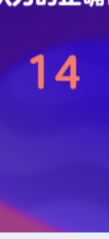
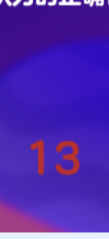
Debug challenge fight and add niu mode

diff --git a/running.py b/running.py
@@ -16,13 +16,14 @@ class MainRun:
     is_switch = False
     go_home = False
 
-    def __init__(self, skip_cat_grab, go_home, semi_auto = False, is_switch = False):
+    def __init__(self, skip_cat_grab, go_home, semi_auto = False, is_switch = False, is_niu = False):
         self.semi_auto = semi_auto
         self.go_home = go_home
         self.sft = get_scaling_factor()
         self.is_switch = is_switch
         print ("Scaling factor : " + str(self.sft))
         self.sc = skip_cat_grab
+        self.is_niu = is_niu
         found_rb = False
         retry = 50
         while not found_rb:
@@ -61,7 +62,7 @@ class MainRun:
         time.sleep(4)
         if not self.sc:
             self.grab_cat()
-        if self.go_home:
+        if self.go_home or self.is_niu:
             print ("Going home!")
             while single_find("VisitGoHome"):
                 try:
@@ -165,19 +166,20 @@ class MainRun:
     def find_cat_house(self):
         pyautogui.vscroll(100)  # Make it top
         scrolls = 50
+        cat_house_name = ("CatHouseNiu" if self.is_niu else "CatHouse" )
         while True:
             scrolls -= 1
             if scrolls == 0:
                 return False
-            elif not single_find("CatHouse"):
+            elif not single_find(cat_house_name):
                 pyautogui.vscroll(-100)
                 print ("Cat House not found, " + str(scrolls) + " retries remain")
                 continue
             else:
                 break
-        while single_find("CatHouse"):
+        while single_find(cat_house_name):
             try:
-                lc = get_center("CatHouse", "Single")
+                lc = get_center(cat_house_name, "Single")
                 vc = get_center("VisitButton", "Single")
                 # print(f"Image found at: {center.y}")
                 click_at((vc.x / self.sft), (lc.y / self.sft))

diff --git a/common.py b/common.py
@@ -1,3 +1,4 @@
+import time
 from datetime import datetime
 import pyautogui
 import cv2
@@ -5,6 +6,7 @@ import numpy as np
 import platform
 import ctypes
 
+from click import click_at
 
 coor_dict = {}
 
@@ -65,6 +67,7 @@ single_find_map = {
     "CardMode": "pics/card_mode.png",
     "CatCard": "pics/cat_card.png",
     "CatHouse": "pics/cat_house.png",
+    "CatHouseNiu": "pics/cat_house_niu.png",
     "VisitBack": "pics/visit_back.png",
     "Confirm": "pics/confirm.png",
     "BackVisit": "pics/back_normal_visit.png",
@@ -130,7 +133,7 @@ resource_map = {
 
 but_list = {}
 
-no_cache_list = ["CatHouse", "Exit", "Replace", "Chat", "RollRed", "DiamRed", "Confirm"]
+no_cache_list = ["CatHouse", "Exit", "Replace", "Chat", "RollRed", "DiamRed", "Confirm", "Challenge"]
 
 # Define a new print function with a timestamp
 # Save the original built-in print function
@@ -258,3 +261,23 @@ def screen_shot():
     screen = np.array(screenshot)
     return cv2.cvtColor(screen, cv2.COLOR_RGB2GRAY)
 
+def challenge_fight():
+    count = 1
+    while single_find("Challenge"):
+        print ("Chanllenge not pass, fight again!")
+        center = get_center("Challenge", "Single")
+        click_at(center.x, center.y)
+        time.sleep(3)
+        print("Start challenge fight " + str(count))
+        count += 1
+
+        while simple_single_find("FightSkip", "Single", 0.9):
+            print("Found Skip Button")
+            cc = get_center("FightSkip", "Single")
+            click_at(cc.x, cc.y)
+            time.sleep(3)
+    print ("Challenge fight " + str(count) + " then it succeeded!")
+
+
+if __name__ == "__main__":
+    challenge_fight()

diff --git a/imaginationplanet.py b/imaginationplanet.py
@@ -2,7 +2,7 @@ import argparse
 import datetime
 
 from boss_fight import BossFight
-from common import print
+from common import print, challenge_fight
 from email_tools import send_email
 from fight import Fight
 from running import MainRun
@@ -30,7 +30,10 @@ if __name__ == "__main__":
     parser.add_argument("-g", "--gohome", action='store_true', help="Go home directly")
     parser.add_argument("-bf", "--bossfight", action='store_true', help="Combo boss fight")
     parser.add_argument("-c", "--combo", action='store_true', help="Comb of running + fighting + wait for red pack for 2 hours")
-    
+    parser.add_argument("-cf", "--challengefight", action='store_true', help="Try to fight challenge until success")
+    parser.add_argument("-n", "--niu", action='store_true', help="Run for niu mode")
+
+
     args = parser.parse_args()
 
     content = ""
@@ -57,6 +60,9 @@ if __name__ == "__main__":
     if args.bossfight:
         bf = BossFight()
         bf.combo_fight()
+
+    if args.challengefight:
+        challenge_fight()
 
     if args.fight:
         fight = Fight()
